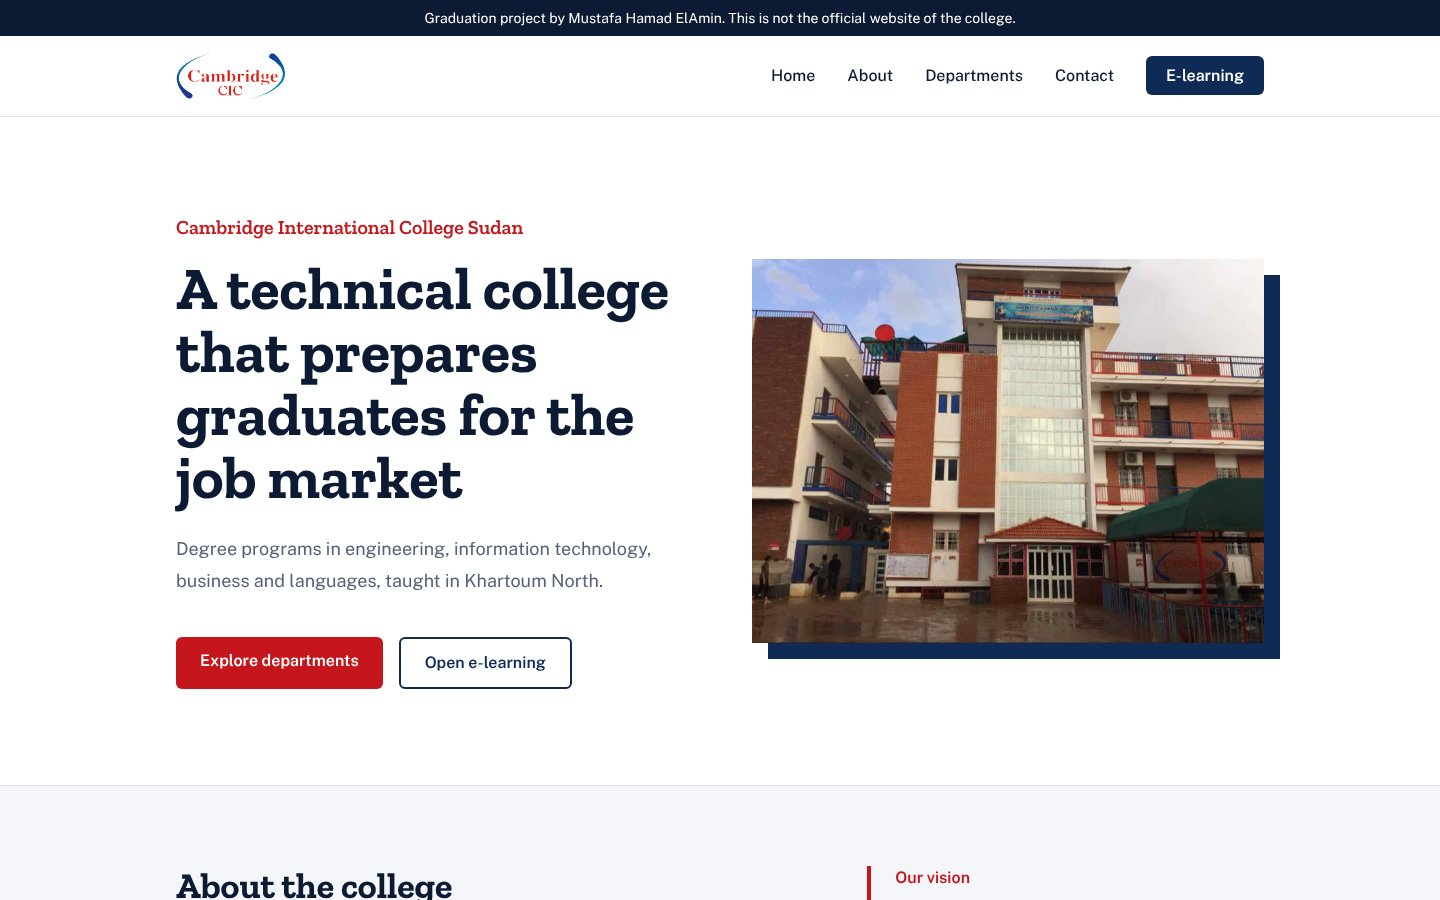
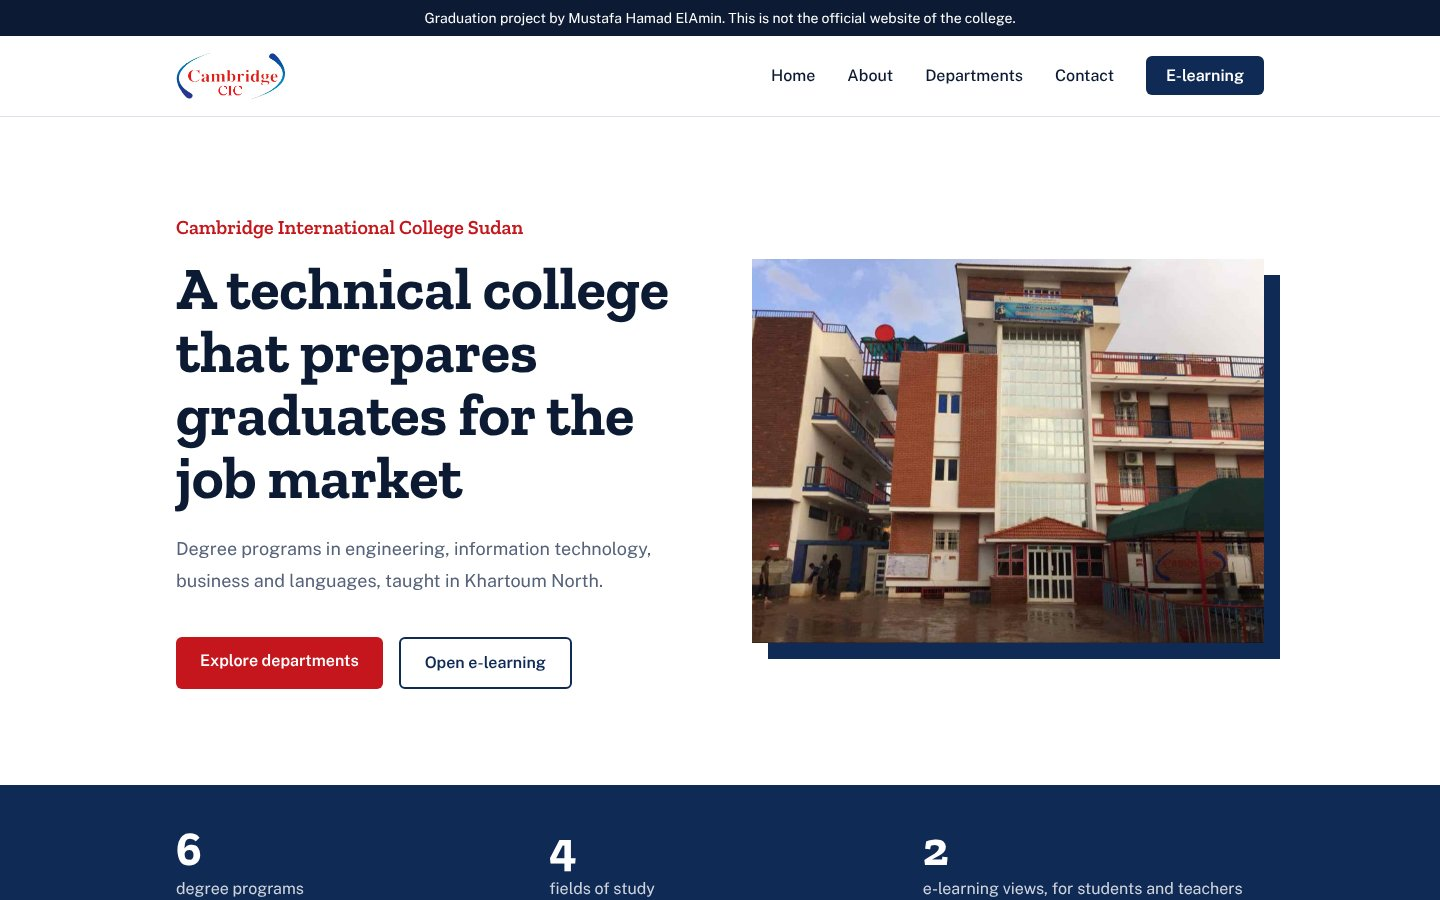
Rework the home page
- Quick facts strip under the hero, counted from the program data
- Programs shown as one card per field
- E-learning section now shows the student screen
- Contact section with address, phones, email and a Google Maps link

Claude-Session: https://claude.ai/code/session_01TkRPnwSefusrgepjoER5a5

Changed region(s): [[0.0, 0.8711, 1.0, 1.0]]

diff --git a/app/page.tsx b/app/page.tsx
@@ -1,8 +1,21 @@
 import Link from 'next/link'
-import ProgramList from './components/ProgramList'
-import { accreditation, college, programs } from './data/college'
+import FieldCards from './components/FieldCards'
+import { accreditation, college, fields, programs } from './data/college'
+
+const mapUrl =
+  'https://www.google.com/maps/search/?api=1&query=' +
+  encodeURIComponent(`${college.name}, ${college.address}`)
+
+const linkClass =
+  'font-semibold text-navy underline decoration-crimson decoration-2 underline-offset-8 hover:text-crimson'
 
 export default function Home() {
+  const facts = [
+    { value: String(programs.length), label: 'degree programs' },
+    { value: String(fields.length), label: 'fields of study' },
+    { value: '2', label: 'e-learning views, for students and teachers' },
+  ]
+
   return (
     <>
       {/* Hero */}
@@ -46,8 +59,20 @@ export default function Home() {
         </div>
       </section>
 
+      {/* Quick facts */}
+      <section aria-label="The college in numbers" className="bg-navy text-white">
+        <dl className="mx-auto grid max-w-6xl gap-8 px-5 py-10 sm:grid-cols-3 lg:px-8">
+          {facts.map((fact) => (
+            <div key={fact.label} className="flex flex-col-reverse gap-1">
+              <dt className="text-white/80">{fact.label}</dt>
+              <dd className="font-display text-5xl font-bold">{fact.value}</dd>
+            </div>
+          ))}
+        </dl>
+      </section>
+
       {/* About */}
-      <section className="border-t border-mist">
+      <section>
         <div className="mx-auto grid max-w-6xl gap-10 px-5 py-20 lg:grid-cols-5 lg:gap-16 lg:px-8">
           <div className="lg:col-span-3">
             <h2 className="font-display text-4xl font-bold">About the college</h2>
@@ -56,10 +81,7 @@ export default function Home() {
               scientific disciplines and to prepare graduates who are ready, in theory and in
               practice, for advanced study and for the needs of development and the job market.
             </p>
-            <Link
-              href="/about"
-              className="mt-6 inline-block font-semibold text-navy underline decoration-crimson decoration-2 underline-offset-8 hover:text-crimson"
-            >
+            <Link href="/about" className={`mt-6 inline-block ${linkClass}`}>
               Read more about the college
             </Link>
           </div>
@@ -74,37 +96,54 @@ export default function Home() {
         </div>
       </section>
 
-      {/* Programs */}
-      <section className="border-t border-mist bg-white">
+      {/* Programs by field */}
+      <section className="border-y border-mist bg-white">
         <div className="mx-auto max-w-6xl px-5 py-20 lg:px-8">
-          <h2 className="font-display text-4xl font-bold">Programs</h2>
-          <p className="mt-4 max-w-2xl text-lg leading-8 text-slate">
-            Six degree programs across four fields.
-          </p>
+          <div className="flex flex-wrap items-end justify-between gap-4">
+            <div>
+              <h2 className="font-display text-4xl font-bold">Programs</h2>
+              <p className="mt-4 text-lg leading-8 text-slate">Choose a field to see what you can study.</p>
+            </div>
+            <Link href="/departments" className={linkClass}>
+              See all departments
+            </Link>
+          </div>
           <div className="mt-10">
-            <ProgramList programs={programs} />
+            <FieldCards />
           </div>
         </div>
       </section>
 
       {/* E-learning */}
       <section className="bg-navy text-white">
-        <div className="mx-auto grid max-w-6xl items-center gap-8 px-5 py-20 lg:grid-cols-3 lg:px-8">
-          <div className="lg:col-span-2">
+        <div className="mx-auto grid max-w-6xl items-center gap-12 px-5 py-20 lg:grid-cols-2 lg:gap-16 lg:px-8">
+          <div>
             <h2 className="font-display text-4xl font-bold">E-learning</h2>
-            <p className="mt-4 max-w-2xl text-lg leading-8 text-white/80">
+            <p className="mt-4 text-lg leading-8 text-white/80">
               One place for lectures, online classes, attendance, assignments, the calendar and
               notes, with a separate view for students and for teachers.
             </p>
-          </div>
-          <div className="lg:text-right">
+            <ul className="mt-6 space-y-2 text-white/80">
+              <li>Students follow their lectures, attendance and assignments.</li>
+              <li>Teachers start classes, take attendance and post notes.</li>
+            </ul>
             <Link
               href="/e-learning"
-              className="inline-block rounded-md bg-white px-6 py-3 font-semibold text-navy transition-colors hover:bg-crimson hover:text-white"
+              className="mt-8 inline-block rounded-md bg-white px-6 py-3 font-semibold text-navy transition-colors hover:bg-crimson hover:text-white"
             >
               Sign in to e-learning
             </Link>
           </div>
+
+          <Link href="/e-learning" className="block border-4 border-white/20 transition-colors hover:border-white/50">
+            <img
+              src="/e-learning-preview.jpg"
+              alt="The student screen, showing the next class, attendance and assignments"
+              width={1770}
+              height={1326}
+              className="w-full"
+            />
+          </Link>
         </div>
       </section>
 
@@ -120,6 +159,58 @@ export default function Home() {
               </li>
             ))}
           </ul>
+        </div>
+      </section>
+
+      {/* Contact */}
+      <section id="contact" className="scroll-mt-24 border-t border-mist bg-white">
+        <div className="mx-auto max-w-6xl px-5 py-20 lg:px-8">
+          <h2 className="font-display text-4xl font-bold">Contact the college</h2>
+          <div className="mt-10 grid gap-6 md:grid-cols-3">
+            <div className="border border-mist p-6">
+              <h3 className="font-display text-xl font-semibold">Visit</h3>
+              <p className="mt-3 leading-7 text-slate">
+                {college.name}
+                <br />
+                {college.address}
+              </p>
+              <a href={mapUrl} target="_blank" rel="noopener noreferrer" className={`mt-5 inline-block ${linkClass}`}>
+                Open in Google Maps
+              </a>
+            </div>
+
+            <div className="border border-mist p-6">
+              <h3 className="font-display text-xl font-semibold">Call</h3>
+              <ul className="mt-3 space-y-2">
+                {college.phones.map((phone) => (
+                  <li key={phone}>
+                    <a href={`tel:${phone}`} className="text-lg font-semibold text-navy hover:text-crimson">
+                      {phone}
+                    </a>
+                  </li>
+                ))}
+              </ul>
+            </div>
+
+            <div className="border border-mist p-6">
+              <h3 className="font-display text-xl font-semibold">Write</h3>
+              <a
+                href={`mailto:${college.email}`}
+                className="mt-3 inline-block text-lg font-semibold text-navy hover:text-crimson"
+              >
+                {college.email}
+              </a>
+              <ul className="mt-5 flex gap-6">
+                {college.social.map((item) => (
+                  <li key={item.label}>
+                    <a href={item.href} target="_blank" rel="noopener noreferrer" className={linkClass}>
+                      {item.label}
+                    </a>
+                  </li>
+                ))}
+              </ul>
+            </div>
+          </div>
         </div>
       </section>
     </>

diff --git a/app/components/FieldCards.tsx b/app/components/FieldCards.tsx
@@ -1,0 +1,69 @@
+import Link from 'next/link'
+import { fields, programs, type Field } from '../data/college'
+
+const icons: Record<Field, React.ReactNode> = {
+  Engineering: (
+    <>
+      <path d="M12 3l7.8 4.5v9L12 21l-7.8-4.5v-9L12 3z" />
+      <circle cx="12" cy="12" r="3" />
+    </>
+  ),
+  Technology: (
+    <>
+      <rect x="3" y="4" width="18" height="12" rx="1.5" />
+      <path d="M8 20h8M12 16v4" />
+    </>
+  ),
+  Business: (
+    <>
+      <rect x="3" y="7" width="18" height="13" rx="1.5" />
+      <path d="M9 7V5a1 1 0 011-1h4a1 1 0 011 1v2M3 13h18" />
+    </>
+  ),
+  Languages: (
+    <>
+      <path d="M4 5h16v11H9l-5 4V5z" />
+      <path d="M8 9h8M8 12h5" />
+    </>
+  ),
+}
+
+/* The home page's program section: one card per field, listing the
+   programs taught in it. */
+export default function FieldCards() {
+  return (
+    <ul className="grid gap-6 sm:grid-cols-2 lg:grid-cols-4">
+      {fields.map((field) => (
+        <li key={field} className="flex flex-col border border-mist bg-paper p-6">
+          <svg
+            className="h-10 w-10 text-crimson"
+            viewBox="0 0 24 24"
+            fill="none"
+            stroke="currentColor"
+            strokeWidth={1.5}
+            strokeLinecap="round"
+            strokeLinejoin="round"
+            aria-hidden="true"
+          >
+            {icons[field]}
+          </svg>
+          <h3 className="mt-5 font-display text-2xl font-bold">{field}</h3>
+          <ul className="mt-4 divide-y divide-mist border-t border-mist">
+            {programs
+              .filter((program) => program.field === field)
+              .map((program) => (
+                <li key={program.slug}>
+                  <Link href={`/departments/${program.slug}`} className="group block py-3">
+                    <span className="block text-sm font-semibold text-crimson">{program.degree}</span>
+                    <span className="block font-semibold underline decoration-transparent underline-offset-4 transition-colors group-hover:decoration-crimson">
+                      {program.name}
+                    </span>
+                  </Link>
+                </li>
+              ))}
+          </ul>
+        </li>
+      ))}
+    </ul>
+  )
+}

diff --git a/app/components/SiteFooter.tsx b/app/components/SiteFooter.tsx
@@ -3,7 +3,7 @@ import { college } from '../data/college'
 
 export default function SiteFooter() {
   return (
-    <footer id="contact" className="scroll-mt-24 bg-navy text-white">
+    <footer className="bg-navy text-white">
       <div className="mx-auto grid max-w-6xl gap-10 px-5 py-16 sm:grid-cols-2 lg:grid-cols-4 lg:px-8">
         <div>
           <h2 className="font-display text-xl font-semibold">Location</h2>

diff --git a/README.md b/README.md
@@ -10,7 +10,7 @@ This is a student project. It is not the official website of the college.
 
 | Route | Page |
 | :-- | :-- |
-| `/` | Home: introduction, vision, programs, e-learning and accreditation |
+| `/` | Home: introduction, quick facts, vision, programs by field, e-learning, accreditation and contact |
 | `/about` | About the college |
 | `/departments` | All six degree programs, with a filter by field |
 | `/departments/<program>` | One page for each of the six programs |
@@ -46,6 +46,7 @@ app/
 │   ├── SiteHeader.tsx      # Logo, navigation and mobile menu
 │   ├── SiteFooter.tsx      # Location, contact and links
 │   ├── PageHeader.tsx      # Navy title band on inner pages
+│   ├── FieldCards.tsx      # Programs grouped by field, on the home page
 │   ├── ProgramList.tsx     # The list of degree programs
 │   ├── ProgramExplorer.tsx # The list plus the filter by field
 │   ├── DepartmentPage.tsx  # Layout shared by the program pages
